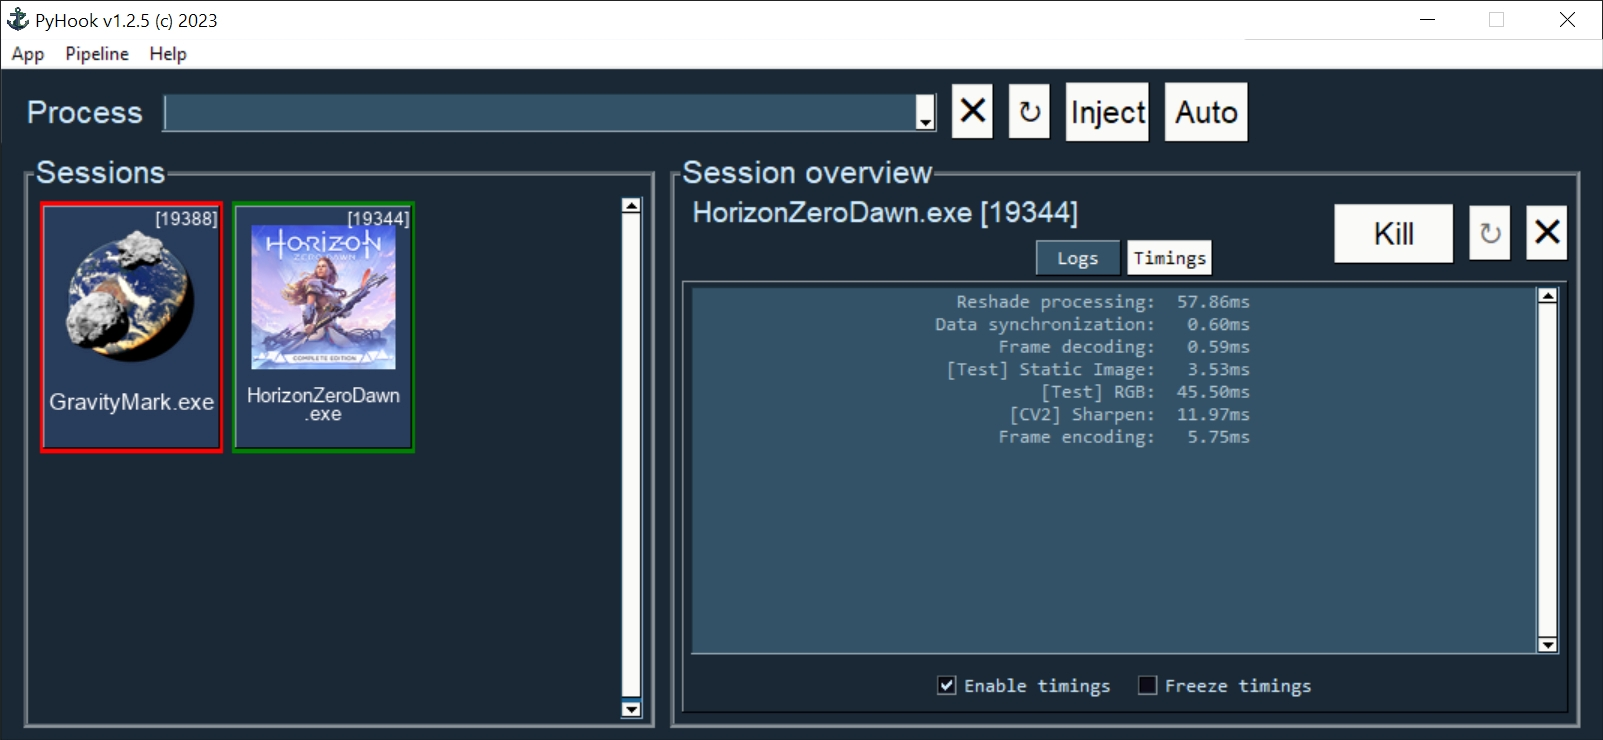
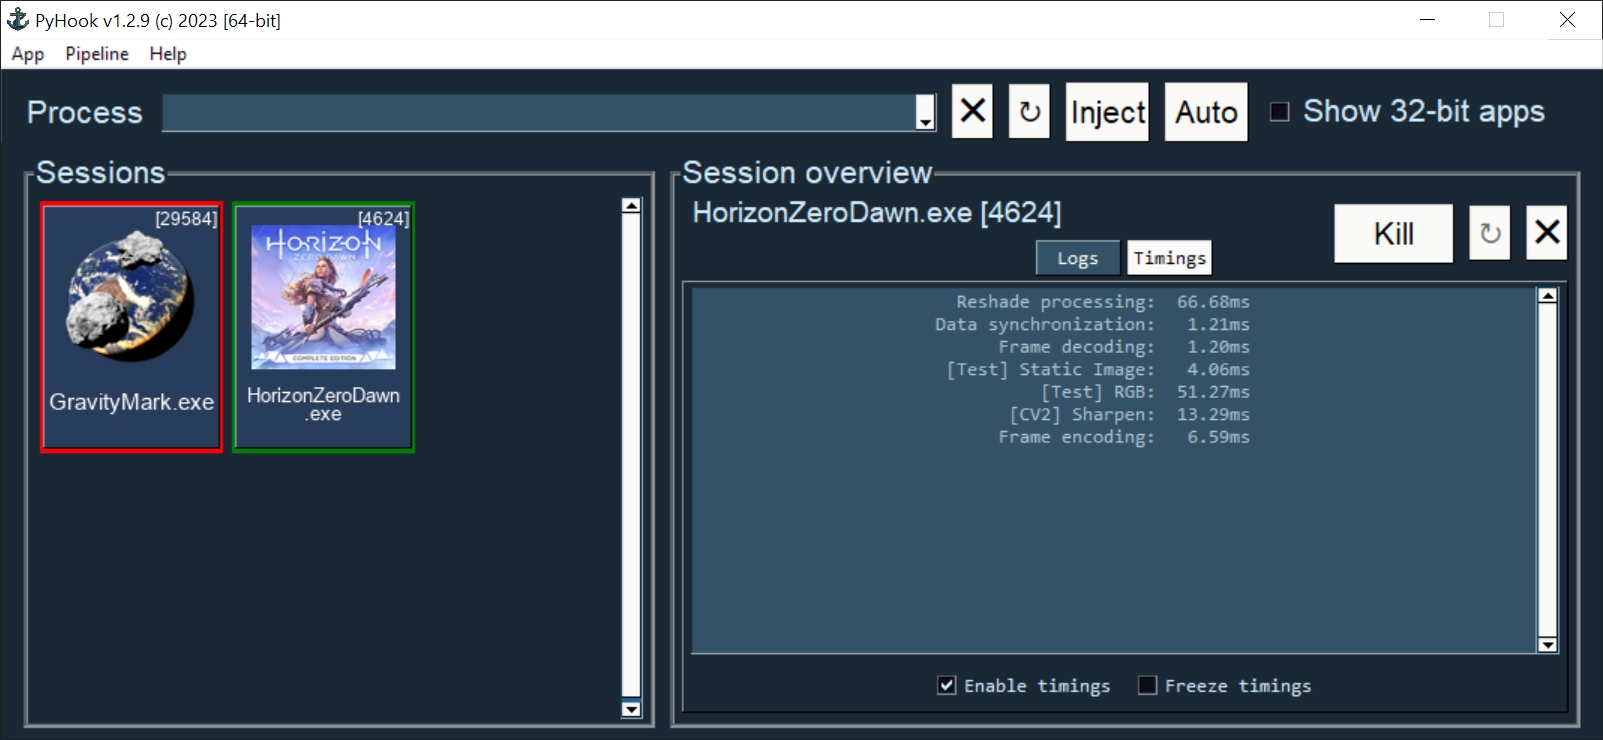
[O] Version bump from 1.2.5 to 1.2.9
-bumped version
-hidden subprocess windows for external actions
-fixed injection code escape
-fixed 32-bit version layout
-updated pipelines version
-updated addon copyright year
-updated gui screenshots
-updated readme

diff --git a/PyHook/utils/external.py b/PyHook/utils/external.py
@@ -12,6 +12,9 @@ from os.path import abspath, exists
 from subprocess import check_call
 from zipfile import ZipFile
 
+from utils.common import get_frozen_path, is_frozen_bundle
+from win.api import CREATE_NO_WINDOW
+
 # Directory for 32-bit data.
 _LIB32_DIRECTORY = "lib32"
 # Version of pyinjector module.
@@ -40,7 +43,9 @@ def unpack_32bit_injector() -> None:
                     "--platform win32 "
                     "--python-version 3.10 "
                     f"pyinjector=={_PYINJECTOR_VERSION}"
-                )
+                ),
+                shell=False,
+                creationflags=CREATE_NO_WINDOW,
             )
             whl_path = f"pyinjector-{_PYINJECTOR_VERSION}-cp310-cp310-win32.whl"
             with ZipFile(whl_path, "r") as whl_archive:
@@ -61,18 +66,24 @@ def inject_external(exe_path: str, pid: int, dll_path: str) -> None:
         pid (int): Process ID.
         dll_path (str): DLL path.
     """
-    lib_init = abspath(f"{_LIB32_DIRECTORY}\\pyinjector\\__init__.py")
+    lib_init = f"{_LIB32_DIRECTORY}\\pyinjector\\__init__.py"
+    if is_frozen_bundle():
+        lib_init = get_frozen_path(lib_init)
+    else:
+        lib_init = abspath(lib_init)
     check_call(
         [
             exe_path,
             "-c",
             (
-                """import importlib, sys;"""
+                """import importlib.util, sys;"""
                 f"""spec = importlib.util.spec_from_file_location("pyinjector_ext", "{lib_init}");"""
                 """module = importlib.util.module_from_spec(spec);"""
                 """sys.modules["pyinjector_ext"] = module;"""
                 """spec.loader.exec_module(module);"""
                 f"""module.inject({pid}, "{dll_path}")"""
-            ),
-        ]
+            ).replace("\\", "\\\\"),
+        ],
+        shell=False,
+        creationflags=CREATE_NO_WINDOW,
     )

diff --git a/PyHook/gui/app.py b/PyHook/gui/app.py
@@ -383,18 +383,7 @@ _APP_LAYOUT = [
             size=(4, 1),
             tooltip="Try to automatically find process with ReShade and PyHook loaded",
         ),
-    ]
-    + [
-        sg.Checkbox(
-            "Show 32-bit apps",
-            default=False,
-            tooltip="Show 32-bit applications in process list but disables automatic injection.",
-            enable_events=True,
-            key=SGKeys.INJECT_ALLOW_32_BIT_CHECKBOX,
-        )
-    ]
-    if _IS_64_BIT
-    else [],
+    ],
     [
         sg.Frame(
             "Sessions",
@@ -594,6 +583,17 @@ _APP_LAYOUT = [
         ),
     ],
 ]
+
+if _IS_64_BIT:
+    _APP_LAYOUT[1].append(
+        sg.Checkbox(
+            "Show 32-bit apps",
+            default=False,
+            tooltip="Show 32-bit applications in process list but disables automatic injection.",
+            enable_events=True,
+            key=SGKeys.INJECT_ALLOW_32_BIT_CHECKBOX,
+        )
+    )
 
 
 def open_github() -> None:

diff --git a/Addon/pyhook_main.cpp b/Addon/pyhook_main.cpp
@@ -1,5 +1,5 @@
 /*
- * Copyright (C) 2022 Dominik Wojtasik
+ * Copyright (C) 2023 Dominik Wojtasik
  * SPDX-License-Identifier: MIT
  *
  * PyHook addon
@@ -13,7 +13,7 @@
 #include <sstream>
 
  // Export special variables for ReShade addon.
-extern "C" __declspec(dllexport) const char* NAME = "PyHook"; //v1.2.5
+extern "C" __declspec(dllexport) const char* NAME = "PyHook"; //v1.2.9
 extern "C" __declspec(dllexport) const char* DESCRIPTION = "Passes processed back buffer to Python pipeline.";
 
 // ReShade version

diff --git a/PyHook/pipelines/ai_depth_estimation.py b/PyHook/pipelines/ai_depth_estimation.py
@@ -20,7 +20,7 @@ with use_local_python():
     torch.backends.cudnn.enabled = True
 
 name = "[AI] Depth Estimation"
-version = "1.1.2"
+version = "1.2.9"
 desc = """Torch pipeline for depth estimation.
 Based on "Towards Robust Monocular Depth Estimation: Mixing Datasets for Zero-shot Cross-dataset Transfer" from:
 https://github.com/isl-org/MiDaS"""

diff --git a/PyHook/pipelines/ai_semantic_segmentation.py b/PyHook/pipelines/ai_semantic_segmentation.py
@@ -10,7 +10,7 @@ with use_local_python():
     import torch.nn.functional as F
 
 name = "[AI] Semantic Segmentation"
-version = "1.1.2"
+version = "1.2.9"
 desc = """Torch pipeline for semantic segmentation.
 Based on "PIDNet: A Real-time Semantic Segmentation Network Inspired from PID Controller" from:
 https://github.com/XuJiacong/PIDNet"""

diff --git a/PyHook/pipelines/ai_style_transfer.py b/PyHook/pipelines/ai_style_transfer.py
@@ -11,7 +11,7 @@ with use_local_python():
     from torchvision import transforms
 
 name = "[AI] Style Transfer"
-version = "1.1.2"
+version = "1.2.9"
 desc = """Torch pipeline for fast style transfer.
 Based on "Fast neural style with MobileNetV2 bottleneck blocks" from:
 https://github.com/mmalotin/pytorch-fast-neural-style-mobilenetV2"""

diff --git a/PyHook/pipelines/ai_multi_style_transfer.py b/PyHook/pipelines/ai_multi_style_transfer.py
@@ -11,7 +11,7 @@ with use_local_python():
     from torch.autograd import Variable
 
 name = "[AI] Multi Style Transfer"
-version = "1.1.2"
+version = "1.2.9"
 desc = """Torch pipeline for fast multi style transfer.
 Based on "PyTorch-Style-Transfer" from:
 https://github.com/zhanghang1989/PyTorch-Multi-Style-Transfer"""

diff --git a/PyHook/pipelines/ai_colorization.py b/PyHook/pipelines/ai_colorization.py
@@ -10,7 +10,7 @@ with use_local_python():
     import torch.nn.functional as F
 
 name = "[AI] Colorization"
-version = "1.1.2"
+version = "1.2.9"
 desc = """Torch pipeline for grayscale colorization.
 Color image is converted to grayscale and colorization is applied.
 Based on "Colorful Image Colorization" from:

diff --git a/PyHook/pipelines/ai_dnn_super_resolution.py b/PyHook/pipelines/ai_dnn_super_resolution.py
@@ -6,7 +6,7 @@ with use_local_python():
     import cv2
 
 name = "[AI] DNN Super Resolution"
-version = "1.1.2"
+version = "1.2.9"
 desc = """OpenCV pipeline for DNN super resolution.
 On first stage frame resolution is shorten by given multiplier.
 On second stage selected super resolution is applied."""

diff --git a/PyHook/pipelines/ai_cartoon_gan.py b/PyHook/pipelines/ai_cartoon_gan.py
@@ -11,7 +11,7 @@ with use_local_python():
     from torchvision import transforms
 
 name = "[AI] Cartoon-GAN"
-version = "1.1.2"
+version = "1.2.9"
 desc = """Torch pipeline for AI cartoon stylization.
 Based on "Cartoon-GAN" from:
 https://github.com/FilipAndersson245/cartoon-gan"""

diff --git a/PyHook/pipelines/ai_object_detection.py b/PyHook/pipelines/ai_object_detection.py
@@ -16,7 +16,7 @@ with use_local_python():
     import torchvision
 
 name = "[AI] Object Detection (YOLOv5)"
-version = "1.1.2"
+version = "1.2.9"
 desc = """Torch pipeline for object detection.
 Based on "YOLOv5" from:
 https://github.com/ultralytics/yolov5"""

diff --git a/PyHook/pipelines/test_rgb.py b/PyHook/pipelines/test_rgb.py
@@ -2,7 +2,7 @@ from pipeline_utils import build_variable, read_value
 import numpy as np
 
 name = "[Test] RGB"
-version = "1.1.2"
+version = "1.2.9"
 desc = "Dummy pipeline for testing. Tests RGB manipulation and multiple UI settings."
 supports = [32, 64]
 
